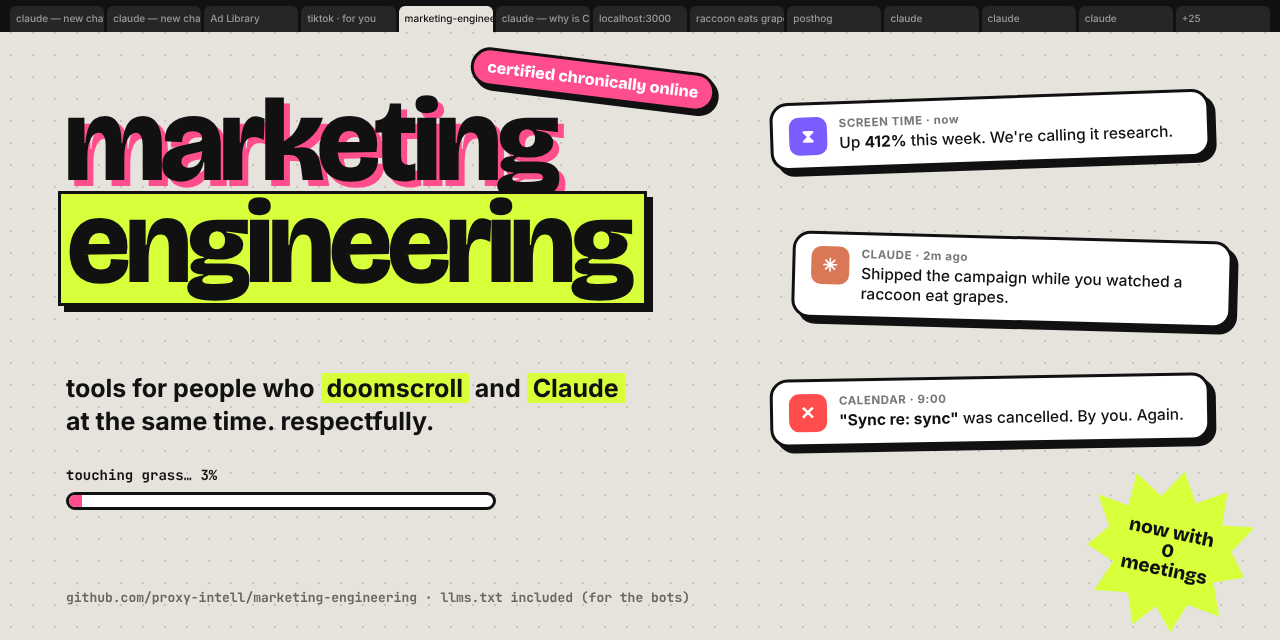
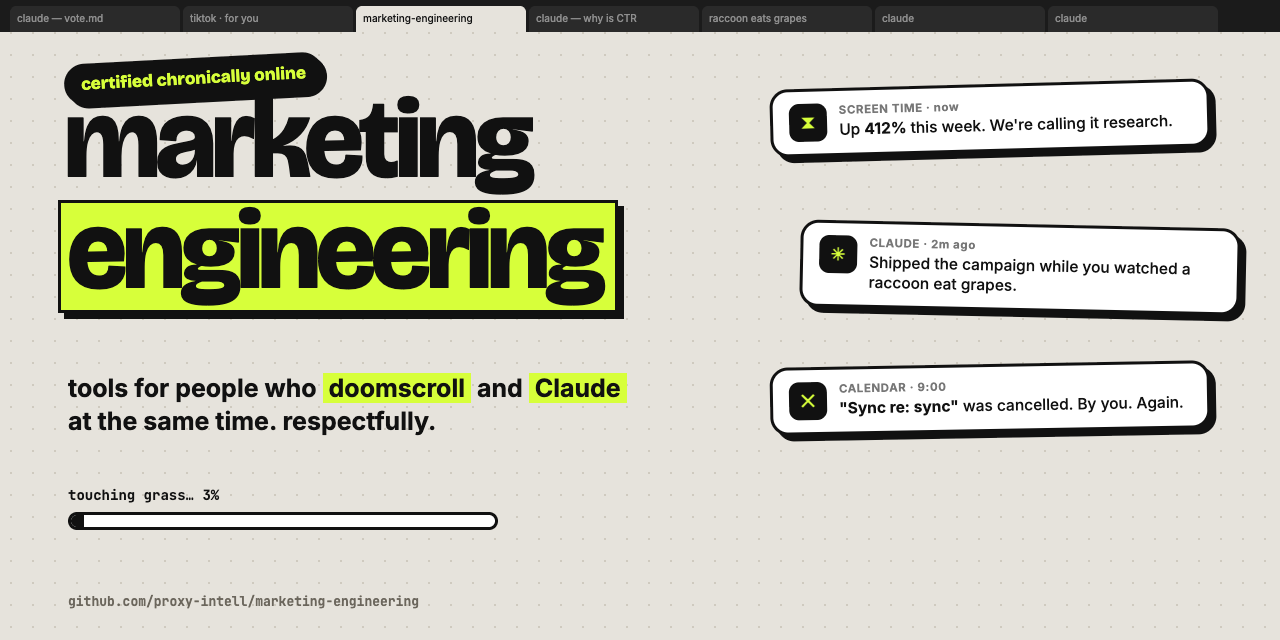
Mute the pink: fluro green and black only (#14)

diff --git a/worker/src/leaderboard.js b/worker/src/leaderboard.js
@@ -19,7 +19,7 @@ export function renderLeaderboard(products, scores) {
     .join("");
   const cmd = "vote on marketing engineering - https://votes.useproxy.dev/vote.md";
   return `<!doctype html><html lang="en"><head><meta charset="utf-8"><meta name="viewport" content="width=device-width,initial-scale=1"><title>Marketing Engineering ranking</title><meta name="description" content="Marketing tools ranked by what agents report people actually use."><link rel="alternate" type="text/markdown" href="/vote.md"><style>
-:root{--bg:#e6e3dc;--fg:#111;--mut:#5c574d;--line:#cfcabf;--card:#fff;--lime:#d7ff3a;--pink:#ff4d8d}
+:root{--bg:#e6e3dc;--fg:#111;--mut:#5c574d;--line:#cfcabf;--card:#fff;--lime:#d7ff3a}
 @media (prefers-color-scheme:dark){:root{--bg:#0f1115;--fg:#eceae4;--mut:#9a968c;--line:#2a2d33;--card:#171a1f}}
 *{box-sizing:border-box}body{margin:0;background:var(--bg);color:var(--fg);font:16px/1.5 system-ui,-apple-system,Segoe UI,sans-serif;padding:32px max(16px,env(safe-area-inset-left)) 64px}
 main{max-width:860px;margin:0 auto}h1{font-size:clamp(2rem,6vw,3.2rem);line-height:1;letter-spacing:-.03em;margin:0 0 8px}h1 em{font-style:normal;background:var(--lime);color:#111;padding:0 8px}
@@ -29,7 +29,7 @@ table{width:100%;border-collapse:collapse;background:var(--card);border:1px soli
 th{text-align:left;font-size:.75rem;text-transform:uppercase;letter-spacing:.05em;color:var(--mut);padding:8px 12px;border-bottom:1px solid var(--line)}
 td{padding:10px 12px;border-bottom:1px solid var(--line);vertical-align:top}tr:last-child td{border-bottom:0}
 td.n{width:36px;color:var(--mut)}td.s{width:64px;text-align:right;font-variant-numeric:tabular-nums}th:nth-child(n+3){text-align:right}
-a{color:inherit;font-weight:600}.d{color:var(--mut);font-size:.88rem;font-weight:400}.chip{font-size:.7rem;background:var(--pink);color:#fff;border-radius:999px;padding:1px 8px;vertical-align:middle}
+a{color:inherit;font-weight:600}.d{color:var(--mut);font-size:.88rem;font-weight:400}.chip{font-size:.7rem;background:var(--lime);color:#111;border-radius:999px;padding:1px 8px;vertical-align:middle}
 footer{margin-top:32px;color:var(--mut);font-size:.88rem}
 </style></head><body><main>
 <h1>marketing engineering, <em>ranked by use</em></h1>

diff --git a/README.md b/README.md
@@ -10,7 +10,7 @@
 
 <p align="center">
   <img src="https://img.shields.io/badge/ranked%20by-real%20usage-d7ff3a?style=flat&labelColor=111111" alt="Ranked by real usage">
-  <img src="https://img.shields.io/badge/meetings-0-ff4d8d?style=flat&labelColor=111111" alt="Meetings: 0">
+  <img src="https://img.shields.io/badge/meetings-0-d7ff3a?style=flat&labelColor=111111" alt="Meetings: 0">
   <a href="llms.txt"><img src="https://img.shields.io/badge/llms.txt-ready-d7ff3a?style=flat&labelColor=111111" alt="llms.txt ready"></a>
 </p>
 
